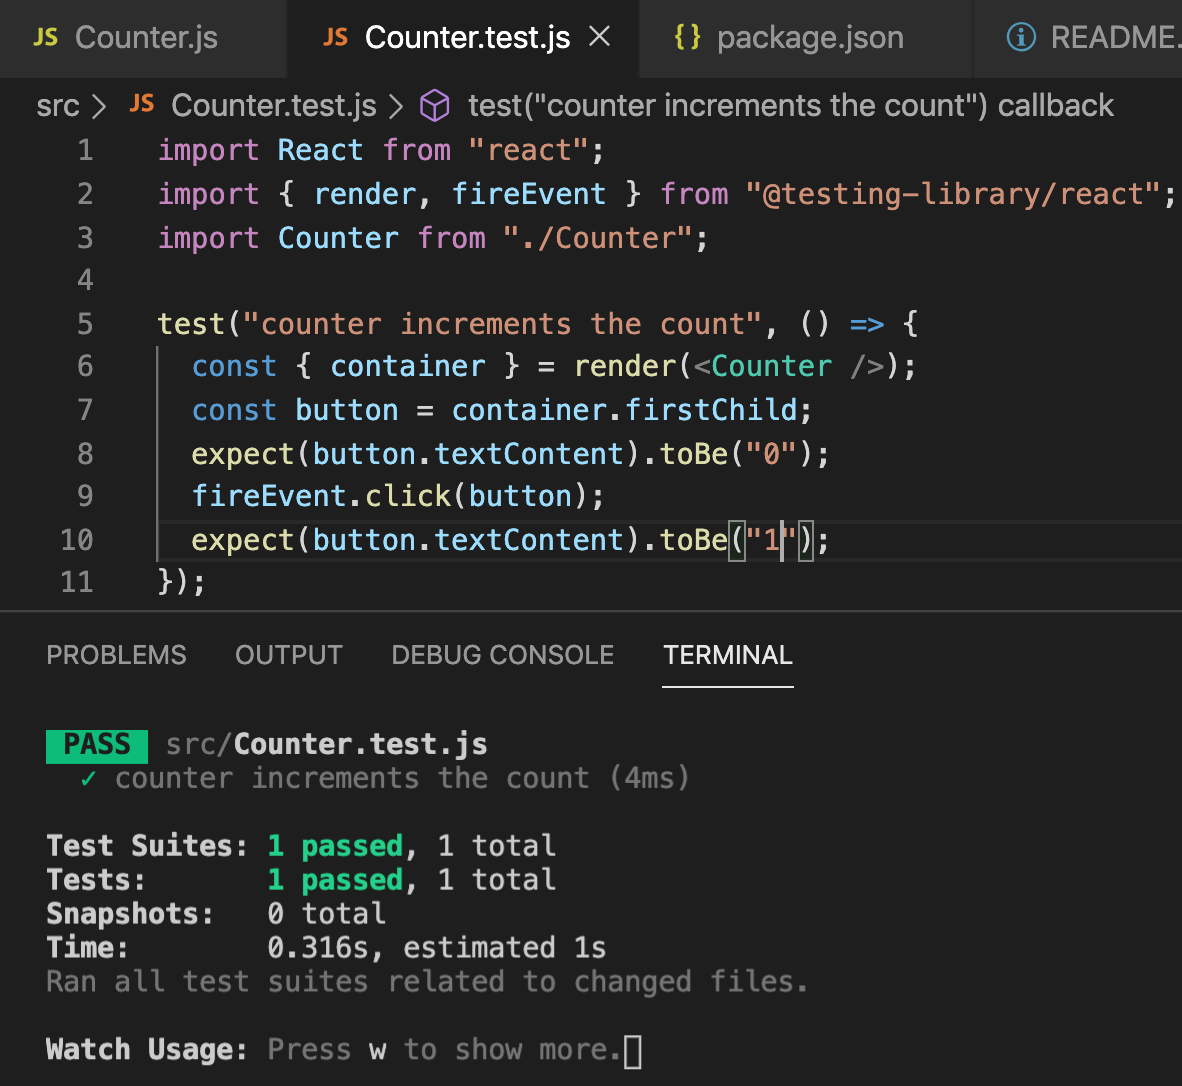
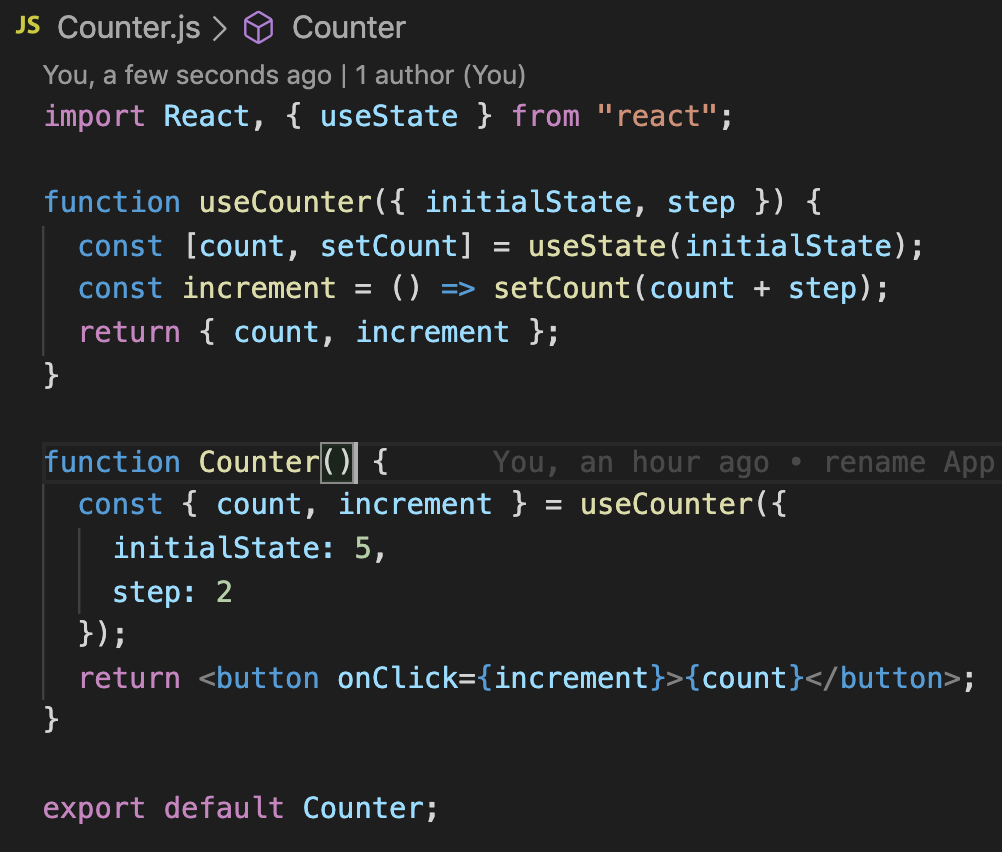
vid3 complete

diff --git a/src/Counter.js b/src/Counter.js
@@ -1,8 +1,16 @@
 import React, { useState } from "react";
 
+function useCounter({ initialState, step }) {
+  const [count, setCount] = useState(initialState);
+  const increment = () => setCount(count + step);
+  return { count, increment };
+}
+
 function Counter() {
-  const [count, setCount] = useState(0);
-  const increment = () => setCount(count + 1);
+  const { count, increment } = useCounter({
+    initialState: 5,
+    step: 2
+  });
   return <button onClick={increment}>{count}</button>;
 }
 

diff --git a/README.md b/README.md
@@ -2,11 +2,7 @@
 
 ![Preview](/public/preview.png)
 
-### Testing with **@test-library/react** on "Button that increments by one each click". 
-- `npm install --save-dev @testing-library/react`
-- if no testing file, create testing file
-- and name it something like "Counter.test.js" or place .js file in "\_\_tests\_\_" folder
-- `npm run test`
+### Share Logic Across Multiple React Components with Custom Hooks
 
 **NOTE: projects separated by branches off master**
 
